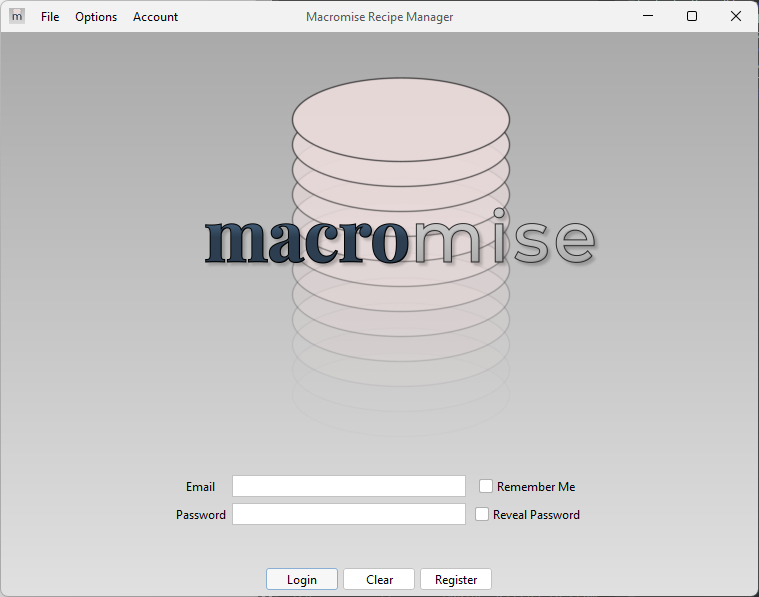
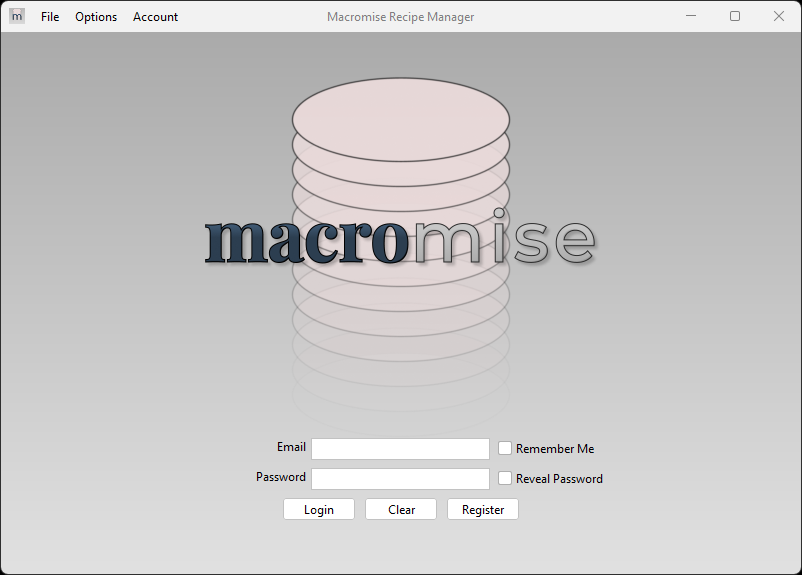
Singleton instance, updated screenshots

diff --git a/src/util/InstanceLocker.java b/src/util/InstanceLocker.java
@@ -1,0 +1,45 @@
+package util;
+
+import java.io.File;
+import java.io.RandomAccessFile;
+import java.nio.channels.FileLock;
+
+/*
+ * Author: Cailean Bernard
+ * Contents: Contains the method that restricts the application to one instance
+ * running at a time.
+ */
+public class InstanceLocker {
+	
+	/**
+	 * 
+	 * Source - https://stackoverflow.com/a
+	 * Posted by Robert
+	 * Retrieved 2025-11-08, License - CC BY-SA 2.5
+	 */
+	public static boolean lockInstance(final String lockFile) {
+	    try {
+	        final File file = new File(lockFile);
+	        final RandomAccessFile randomAccessFile = new RandomAccessFile(file, "rw");
+	        final FileLock fileLock = randomAccessFile.getChannel().tryLock();
+	        if (fileLock != null) {
+	            Runtime.getRuntime().addShutdownHook(new Thread() {
+	                public void run() {
+	                    try {
+	                        fileLock.release();
+	                        randomAccessFile.close();
+	                        file.delete();
+	                    } catch (Exception e) {
+	                        System.err.println("Unable to remove lock file: " + lockFile.toString() + e);
+	                    }
+	                }
+	            });
+	            return true;
+	        }
+	    } catch (Exception e) {
+	        System.err.println("Unable to create and/or lock file: " + lockFile.toString() + e);
+	    }
+	    return false;
+	}
+
+}

diff --git a/src/init/Main.java b/src/init/Main.java
@@ -1,7 +1,10 @@
 package init;
 
+import javax.swing.JOptionPane;
+
 import controller.AppController;
 import model.RecipeMgrModel;
+import util.InstanceLocker;
 import view.AppFrame;
 
 /*
@@ -14,6 +17,16 @@ public class Main {
 
 	public static void main(String[] args) {
 		
+		// Detect if an instance is already running
+		if (!InstanceLocker.lockInstance("lock.txt")) {
+			System.err.println("Application is already running.");
+			JOptionPane.showMessageDialog(null,
+					"There is already an instance of Macromise running.",
+					"Error",
+					JOptionPane.ERROR_MESSAGE);
+			return;
+		}
+		
 		// Create MVC
 		RecipeMgrModel model = new RecipeMgrModel();
 		AppFrame view = new AppFrame();
@@ -23,7 +36,9 @@ public class Main {
 
 		// TODO finish refactoring scaling using BigDecimal
 		// TODO language changing messes with app window size (width)
-		// TODO only one instance open at a time
+		// TODO would be nice if, when expanding window on y-axis, scrollable area became bigger
+		// XXX BUG: When expanding window vertically, upon close/reopen, window is still enlarged (find out how to reproduce)
+		// TODO logging functionality
 		
 	}
 }

diff --git a/src/view/LoginScreen.java b/src/view/LoginScreen.java
@@ -369,7 +369,7 @@ public class LoginScreen extends JPanel {
 
 	public void refreshTranslatable() {
 		rmbrMe.setText(bundle.getString("remember"));
-		emailLabel.setText(bundle.getString("login"));
+		emailLabel.setText(bundle.getString("email"));
 		pwLabel.setText(bundle.getString("password"));
 		pwReveal.setText(bundle.getString("revealPassword"));
 		login.setText(bundle.getString("login"));

diff --git a/README.md b/README.md
@@ -1,7 +1,12 @@
 # Macromise Recipe manager
 
-![Login Screen](resources/img/screenshot_login.png)
-![Recipe Management Screen](resources/img/screenshot_recipescreen_dark.png)
+![Login Screen - Light Theme](resources/img/screenshot_login.png)
+
+- Light Theme
+
+![Recipe Management Screen - Dark Theme](resources/img/screenshot_recipescreen_dark.png)
+
+- Dark Theme
 
 # What this app is for
 
